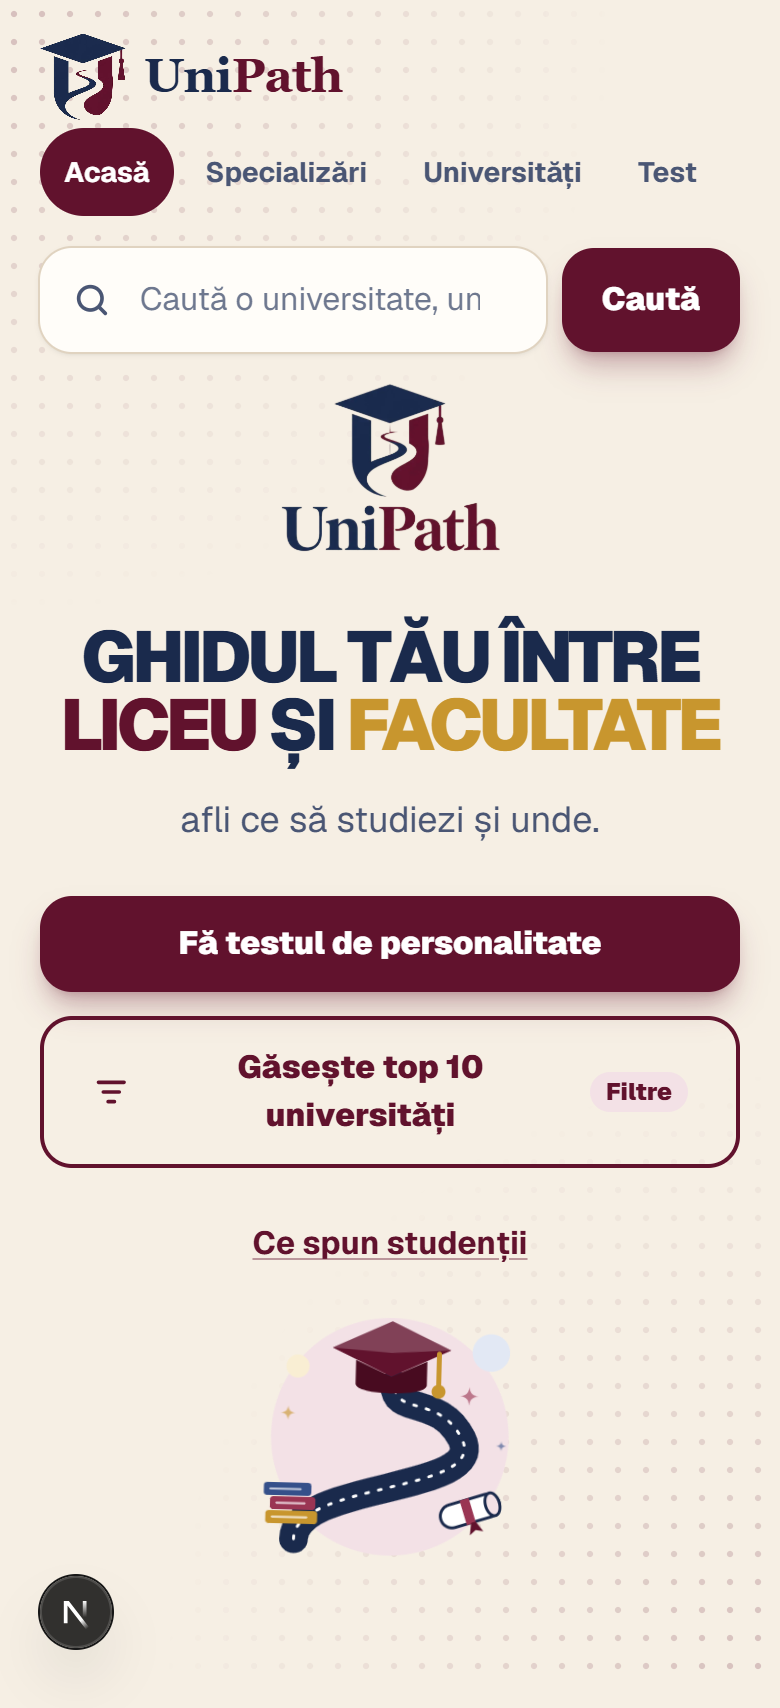
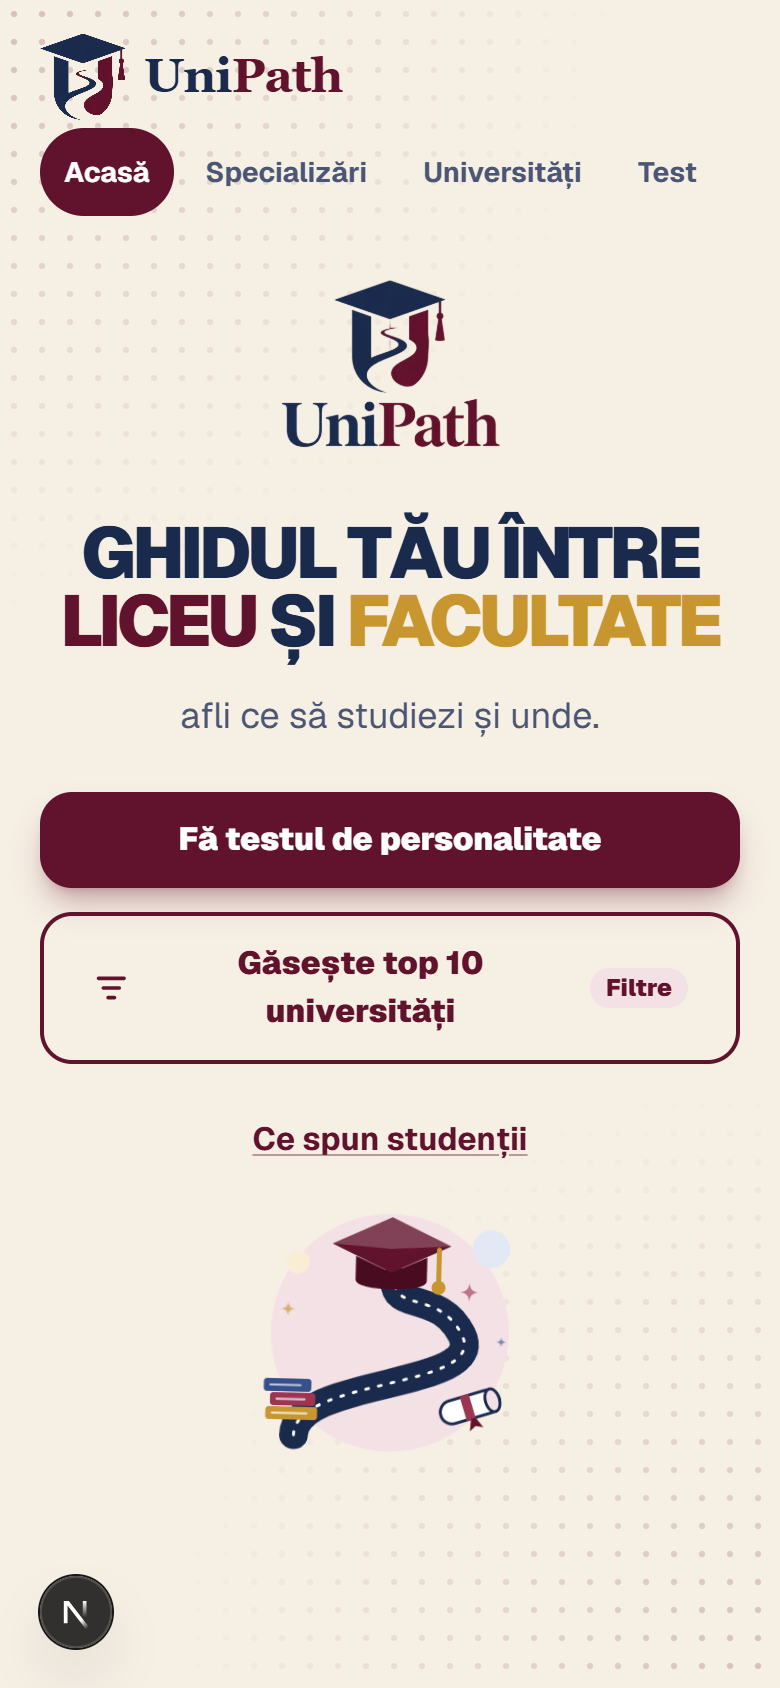
feat: remove the search box from the home page

diff --git a/apps/web/app/page.tsx b/apps/web/app/page.tsx
@@ -1,17 +1,12 @@
-// Home page: search box and the hero with the two main actions; specializations live on /specializari.
+// Home page: the hero with the two main actions; search lives on /universitati and specializations on /specializari.
 import Image from "next/image";
 import Link from "next/link";
 import { HeroScene } from "@/components/Illustrations";
-import { SearchBox } from "@/components/SearchBox";
 import { Shell } from "@/components/Shell";
 
 export default function Home() {
   return (
     <Shell wide>
-      <div className="mx-auto max-w-2xl">
-        <SearchBox />
-      </div>
-
       <section className="mt-2 grid items-center gap-4 md:grid-cols-2">
         <div className="rise text-center md:text-left">
           <h1>

diff --git a/docs/LEDGER.md b/docs/LEDGER.md
@@ -21,6 +21,13 @@ lista de commit-uri de la final se reface singură.
 - Urmează: pasul următor
 -->
 
+### 2026-10-04 23:20 — bara de căutare scoasă de pe pagina principală
+- Cerut: de pe prima pagină să dispară bara de căutare
+- Făcut: căsuța de căutare scoasă din `/`; căutarea de universități rămâne pe `/universitati` (din meniu sau din butonul „Găsește top 10 universități”)
+- Fișiere: `apps/web/app/page.tsx`
+- Poartă: TRECUT (build, 55 teste, pornire); pagina principală văzută în captură pe laptop și la lățime de telefon, fără căsuța de căutare; `/universitati` are în continuare căutarea. Nepublicat
+- Urmează: publicare la cererea echipei (împreună cu căutarea de la „Studenți”); `/pitch`
+
 ### 2026-10-04 23:10 — căutare pe pagina studenților
 - Cerut: la „Studenți”, o bară de căutare cu lupă: omul caută o facultate și vede părerea studentului de acolo, sau pe toate dacă sunt mai multe. Înainte: versiunea cu profilul în test publicată la cererea echipei și parcursă pe adresa publică
 - Făcut: căsuță de căutare cu lupă pe `/studenti`; filtrează pe loc după universitate, facultate, oraș sau prescurtare (și fără diacritice); arată câte păreri s-au găsit; grupul de la aceeași universitate rămâne alăturat; când nu avem nicio părere apare un mesaj și un buton spre căutarea din „Universități”
@@ -220,6 +227,7 @@ lista de commit-uri de la final se reface singură.
 ## Commit-uri (automat)
 
 <!-- commits:start -->
+- 2026-10-04 22:57 `956d89f` feat: search student opinions by faculty or university
 - 2026-10-04 22:45 `9ca0e28` feat: ask the high-school profile as the first step of the test
 - 2026-10-04 22:30 `564932a` feat: keep specializations only on their own page, not on the home page
 - 2026-10-04 18:02 `97391c5` docs: record the published decluttered version in the ledger
@@ -249,5 +257,4 @@ lista de commit-uri de la final se reface singură.
 - 2026-10-04 12:05 `72dd44b` docs: lock the chosen idea, ideation report and stack
 - 2026-10-04 00:14 `018e7d7` docs: move the team guide to the repo root
 - 2026-10-04 00:13 `3d0f662` docs: bring ledger and map up to date
-- 2026-10-04 00:12 `be94cb3` fix: Vercel login and env vars work from inside the Claude app only
 <!-- commits:end -->

diff --git a/docs/MAP.md b/docs/MAP.md
@@ -79,7 +79,7 @@ _Open only the files listed here; a file's description is its first comment line
 - `globals.css` (129) — _no description: add a first-line comment_
 - `layout.tsx` (31) — _no description: add a first-line comment_. Exports: metadata, RootLayout
 - `not-found.tsx` (11) — Friendly 404 page shown for unknown routes and unknown university ids.. Exports: NotFound
-- `page.tsx` (55) — Home page: search box and the hero with the two main actions; specializations live on /specializari.. Routes: /. Exports: Home
+- `page.tsx` (50) — Home page: the hero with the two main actions; search lives on /universitati and specializations on /specializari.. Routes: /. Exports: Home
 
 ### apps/web/app/quiz  (1 files)
 
